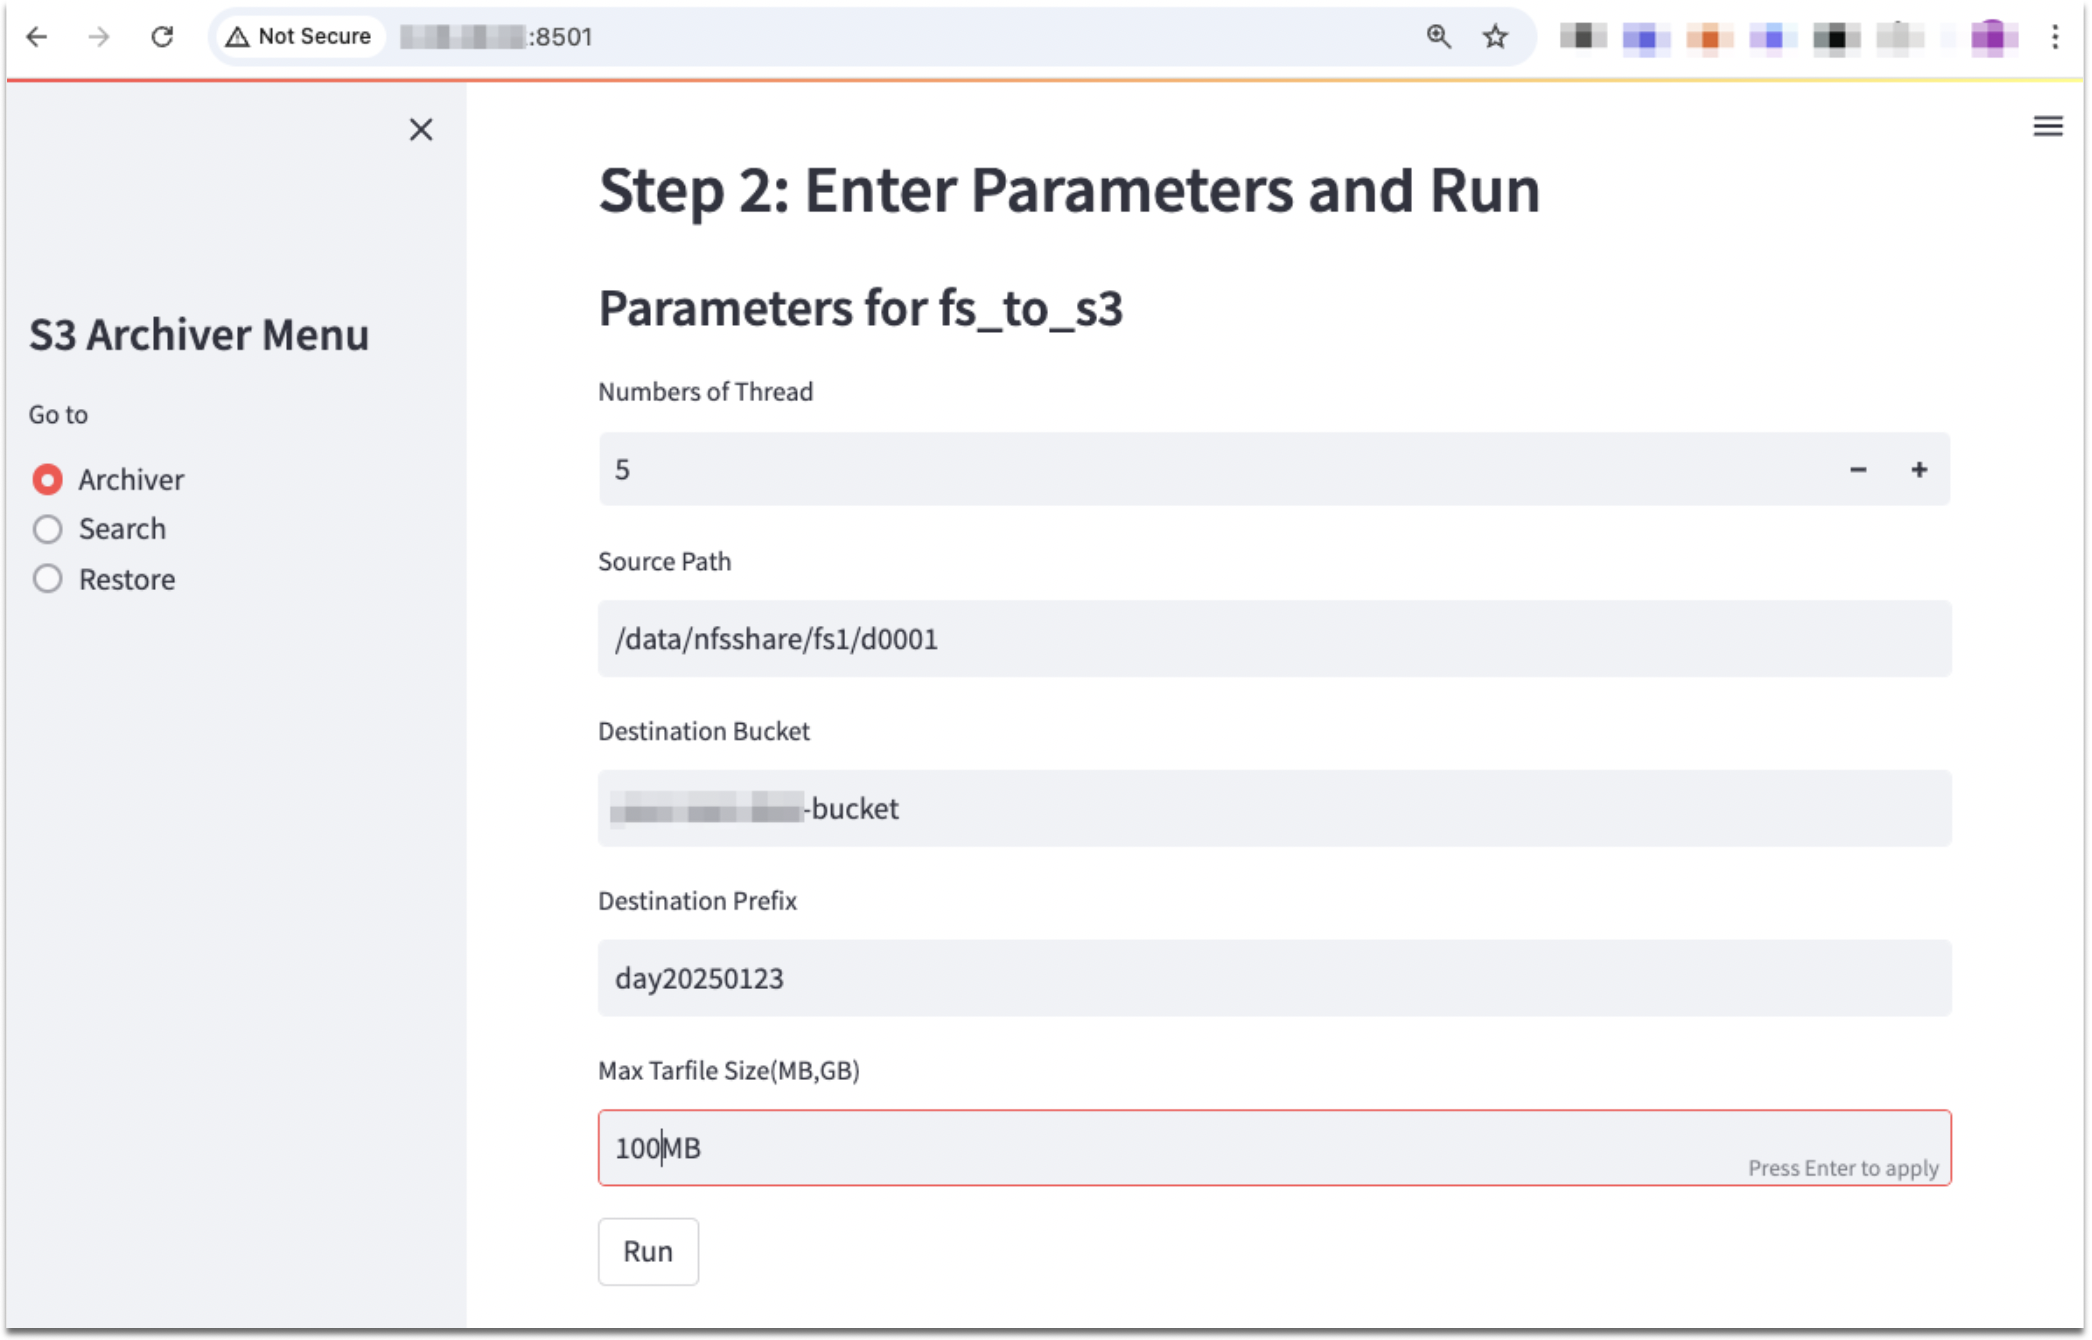
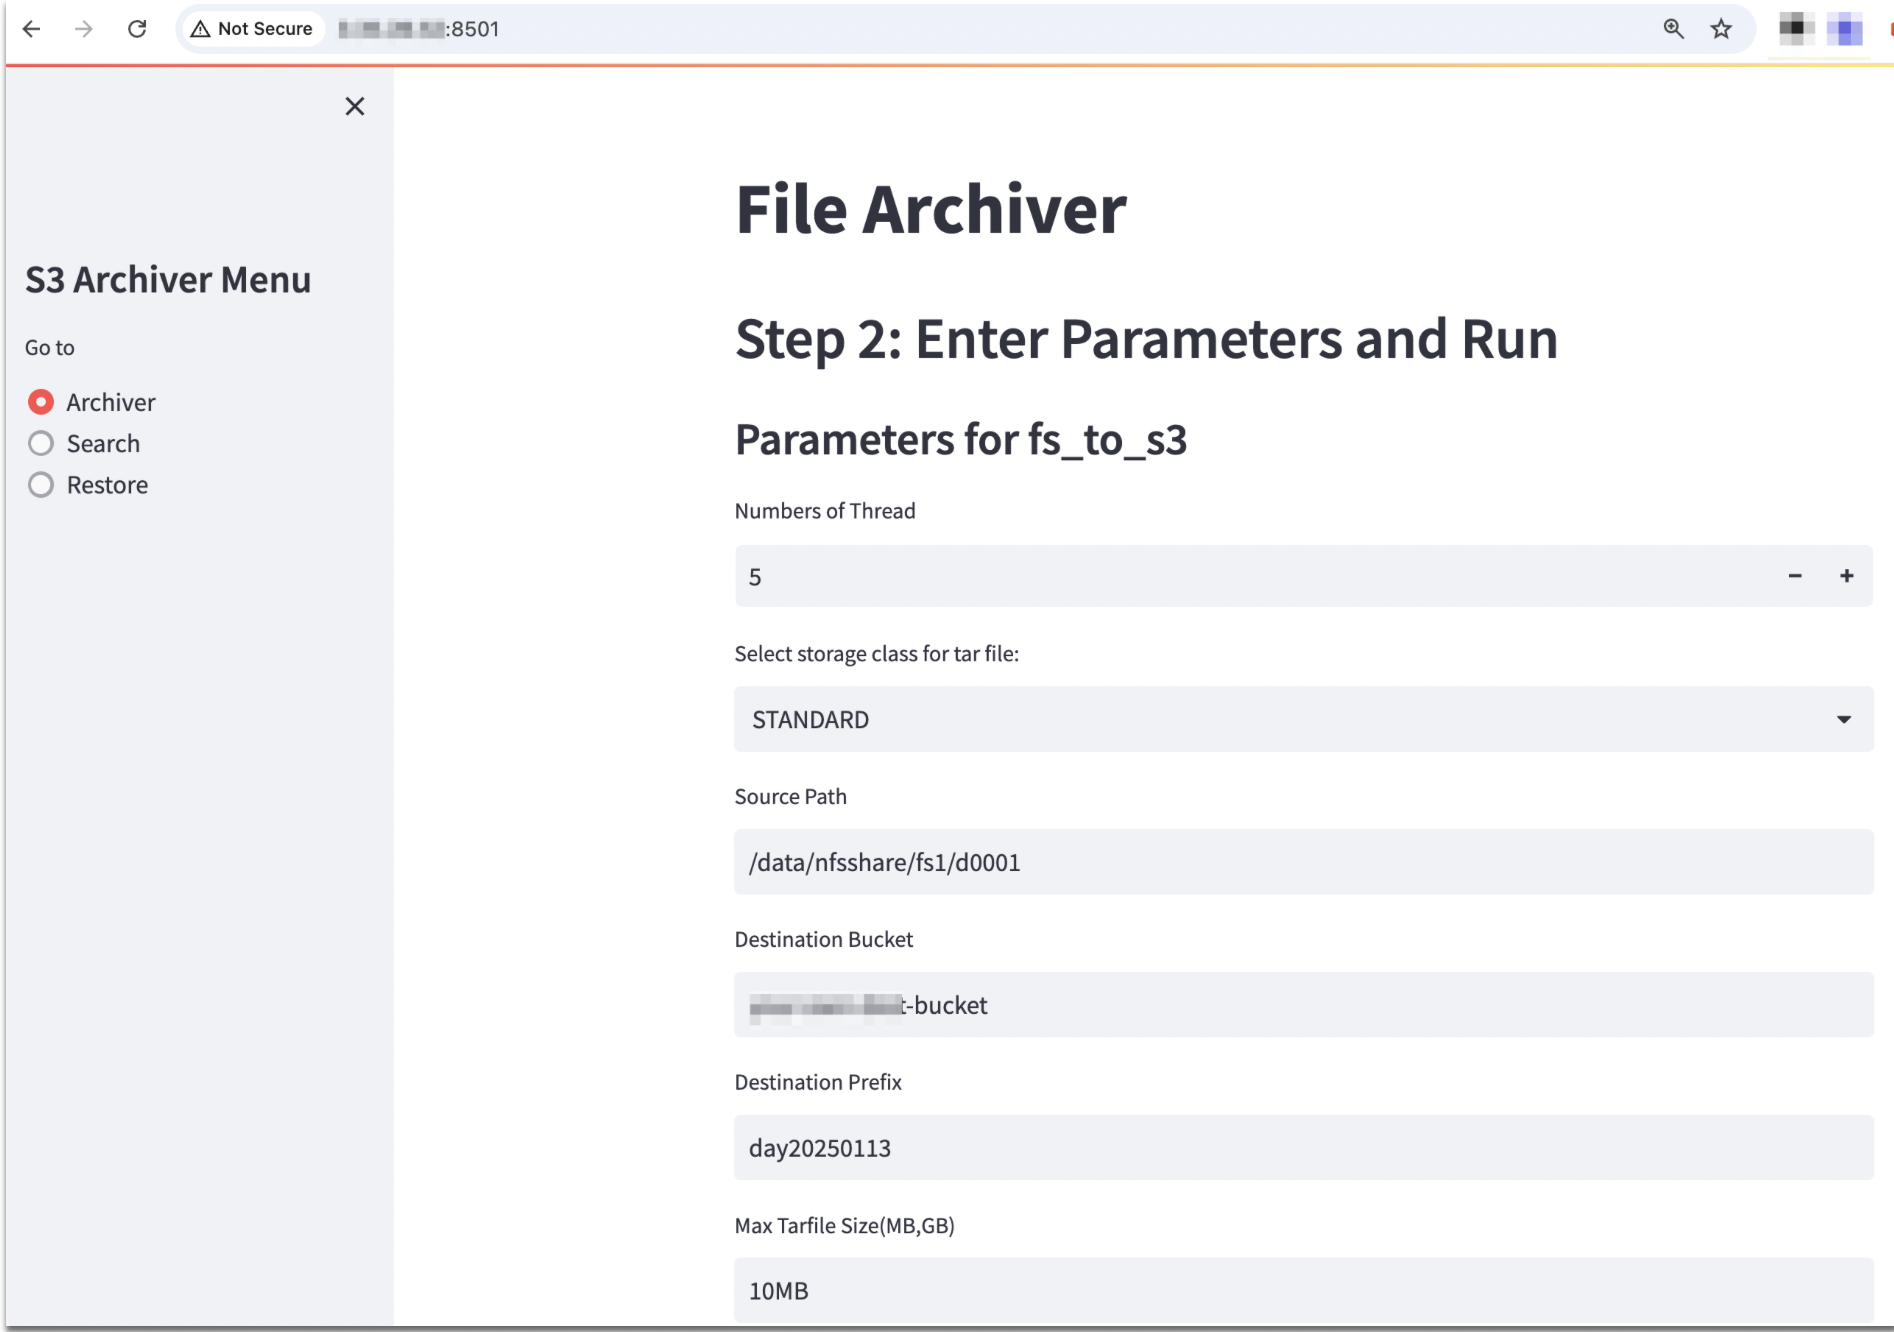
updating readme

diff --git a/README.md b/README.md
@@ -60,7 +60,8 @@ After running a script, you will see url address to access, then open this url o
 
 ![archiving](images/v2/archiving-run.png)
 3. Enter the required parameters and click the "Run" button to start archiving.
-  - Numbers of Thread: his parameter specifies the number of threads to be used for the archiving process. More threads can speed up the process by performing multiple operations in parallel, but it also requires more system resources.
+  - Numbers of Thread: This parameter specifies the number of threads to be used for the archiving process. More threads can speed up the process by performing multiple operations in parallel, but it also requires more system resources.
+  - Storage Classes: This is the destination S3 Storage class where tar files are stored
   - Source Path: This is the path to the source directory or file system from which the files will be archived. It is used when the source type is a file system
   - Destination Bucket: This is the name of the S3 bucket where the archived files will be stored. It is required for both file system to S3 (fs_to_s3) and S3 to S3
   - Destination Prefix: This is the prefix (or folder path) within the destination S3 bucket where the archived files will be stored. It helps in organizing the files within the bucket.
